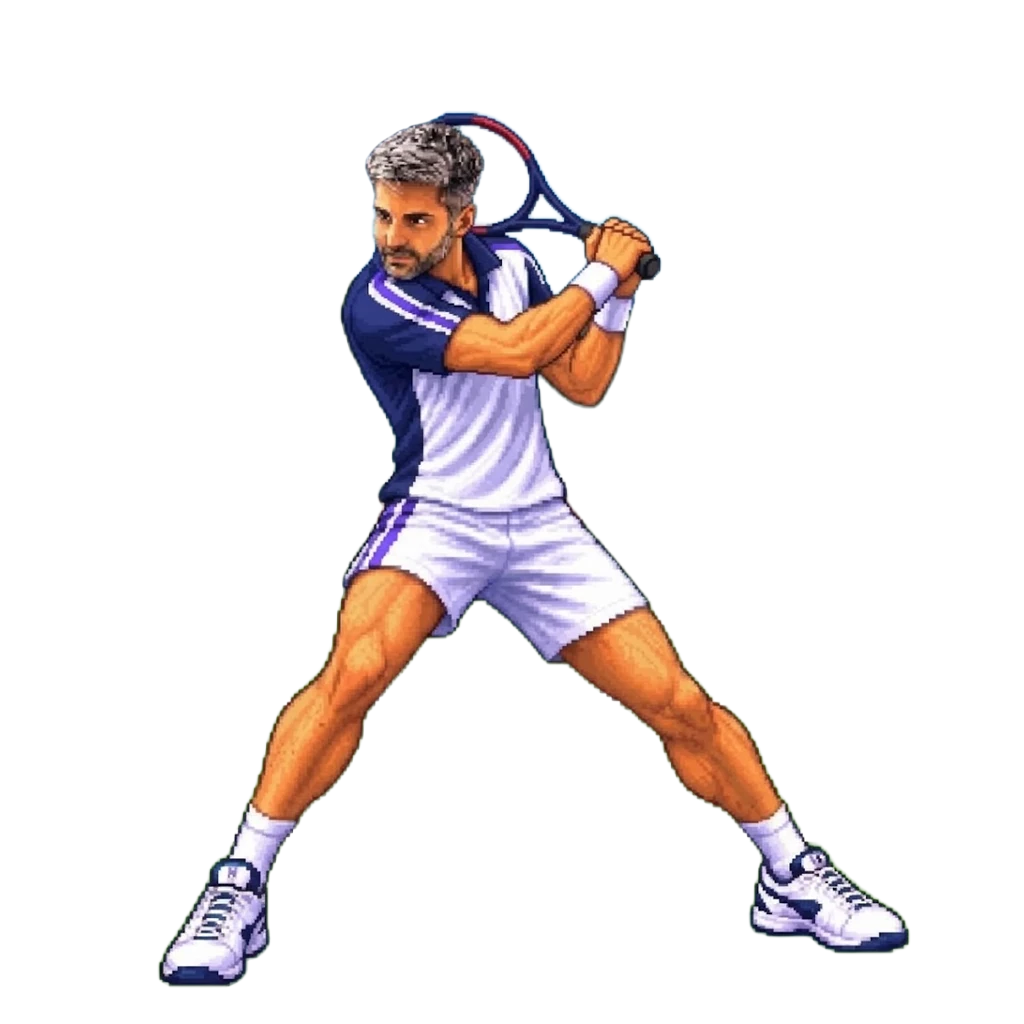
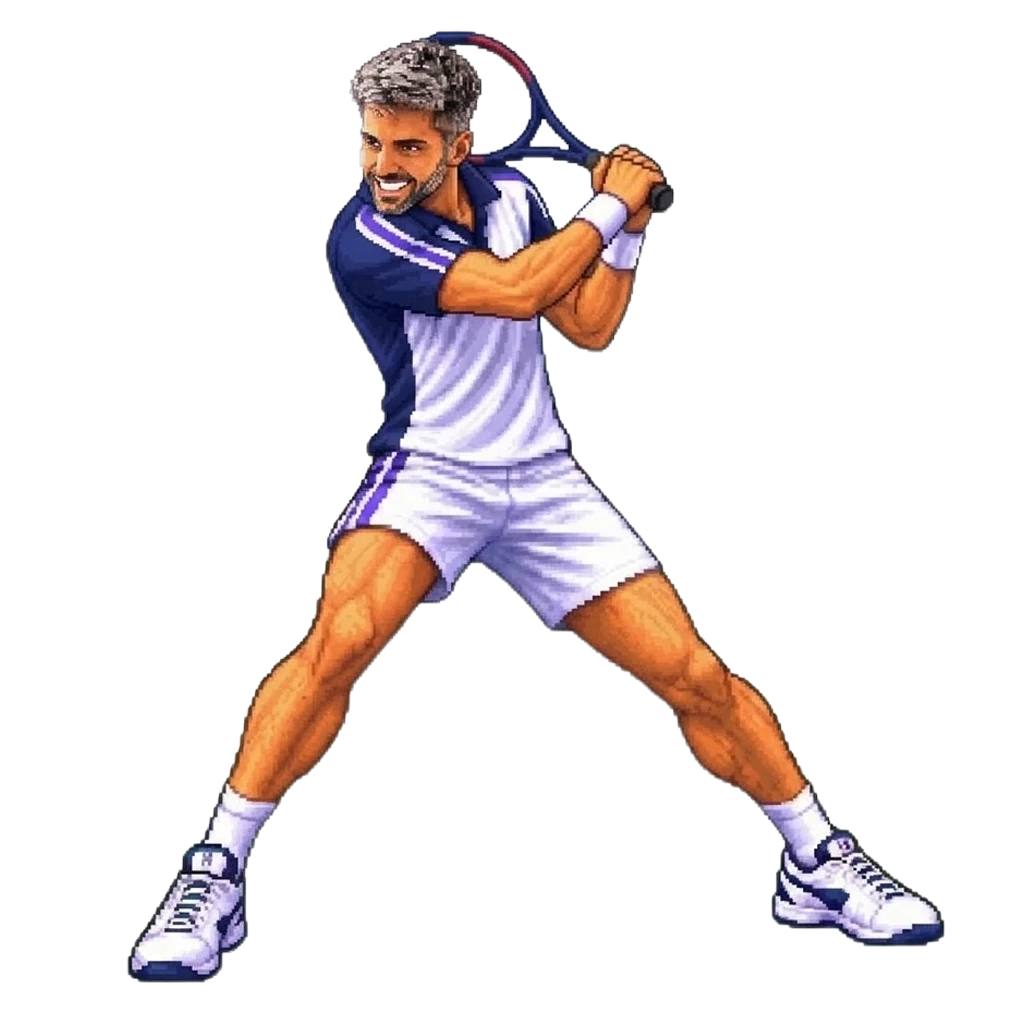
Nuevas poses de Fernando (fer3, fer4) recomprimidas, pies alineados y pelota desde la raqueta

Changed region(s): [[0.125, 0.0312, 0.9375, 0.9688]]

diff --git a/app/Game.js b/app/Game.js
@@ -12,7 +12,7 @@ const FRAMES = [
   { src: '/fer1.webp', ms: 0, dy: 0 }, // espera
   { src: '/fer2.webp', ms: 200, dy: 2.7 }, // armado
   { src: '/fer3.webp', ms: 140, dy: 2.8 }, // impacto
-  { src: '/fer4.webp', ms: 700, dy: 2.4 }, // seguimiento
+  { src: '/fer4.webp', ms: 700, dy: 2.7 }, // seguimiento
 ];
 const PRIMER_GOLPE = 1200; // ms desde que carga la página
 const ESPERA = 5000; // ms entre un golpe y el siguiente
@@ -22,6 +22,7 @@ const ESPERA = 5000; // ms entre un golpe y el siguiente
 // x, y = centro de la pelota en % del cuadrado de Fernando (así es igual en escritorio y celular); s = escala; ms = cuánto dura ese paso.
 // El paso 1 es donde estaba dibujada en fer4. Para ajustar el recorrido basta con tocar estos números.
 const BOLA = [
+  { x: 80, y: 30, s: 1.0, ms: 50 }, // sale de la raqueta (donde estaba en fer3)
   { x: 48, y: 46, s: 1.0, ms: 55 }, // cruzando delante del cuerpo (viene de la raqueta)
   { x: 14.1, y: 62.6, s: 1.0, ms: 70 },
   { x: 8, y: 72, s: 1.35, ms: 70 },
